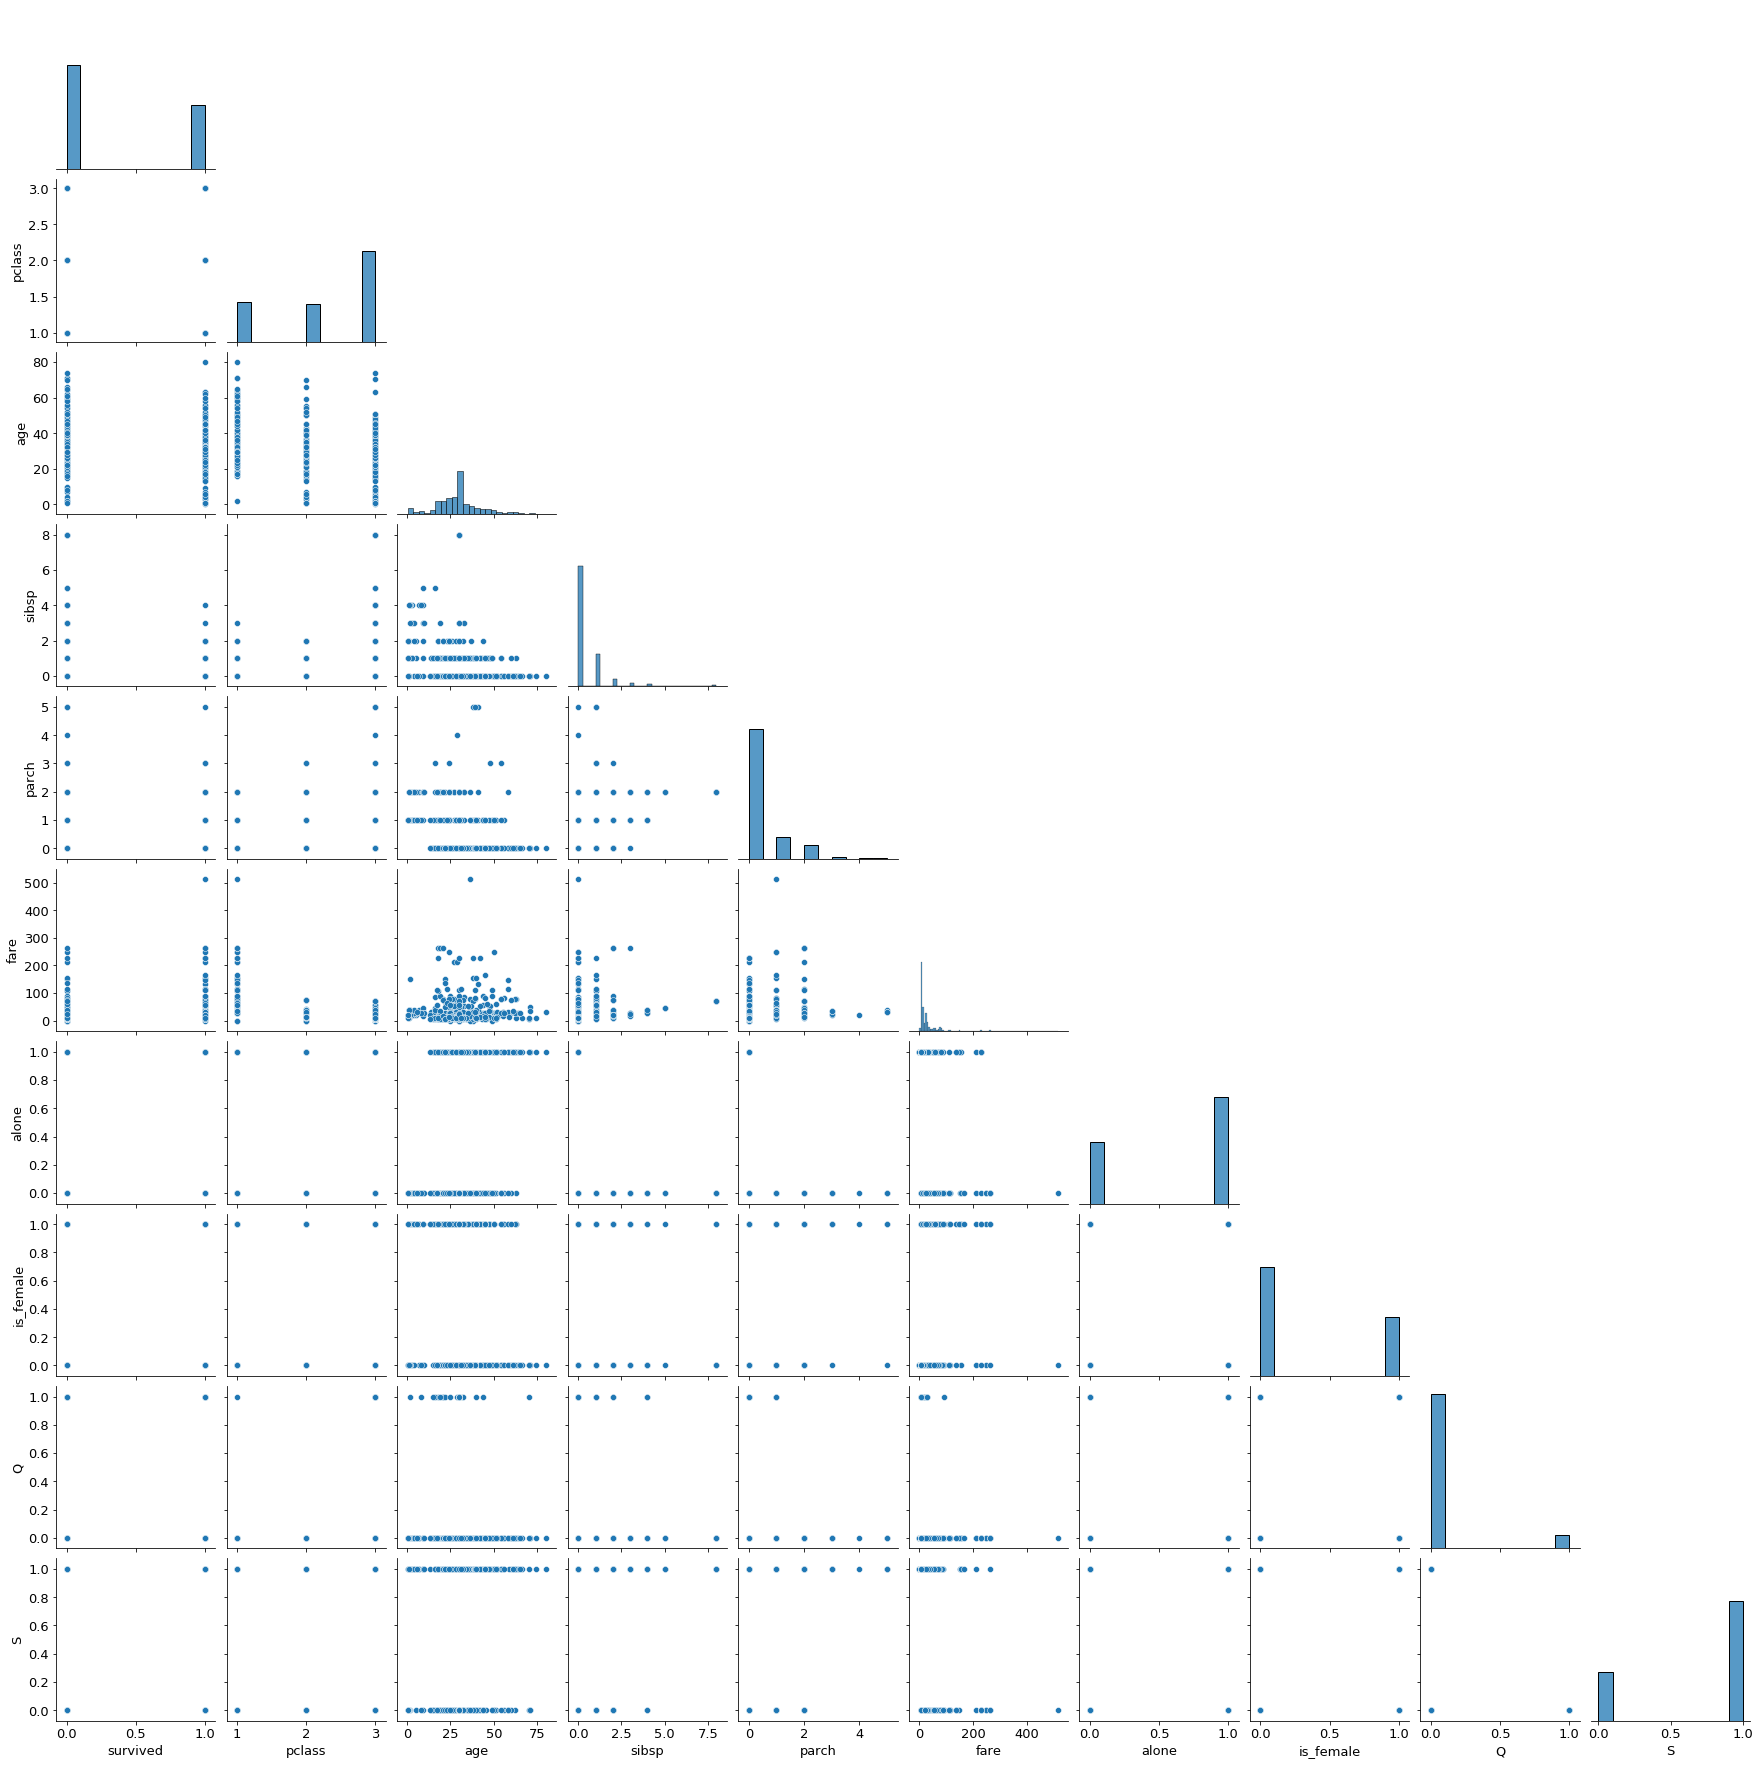
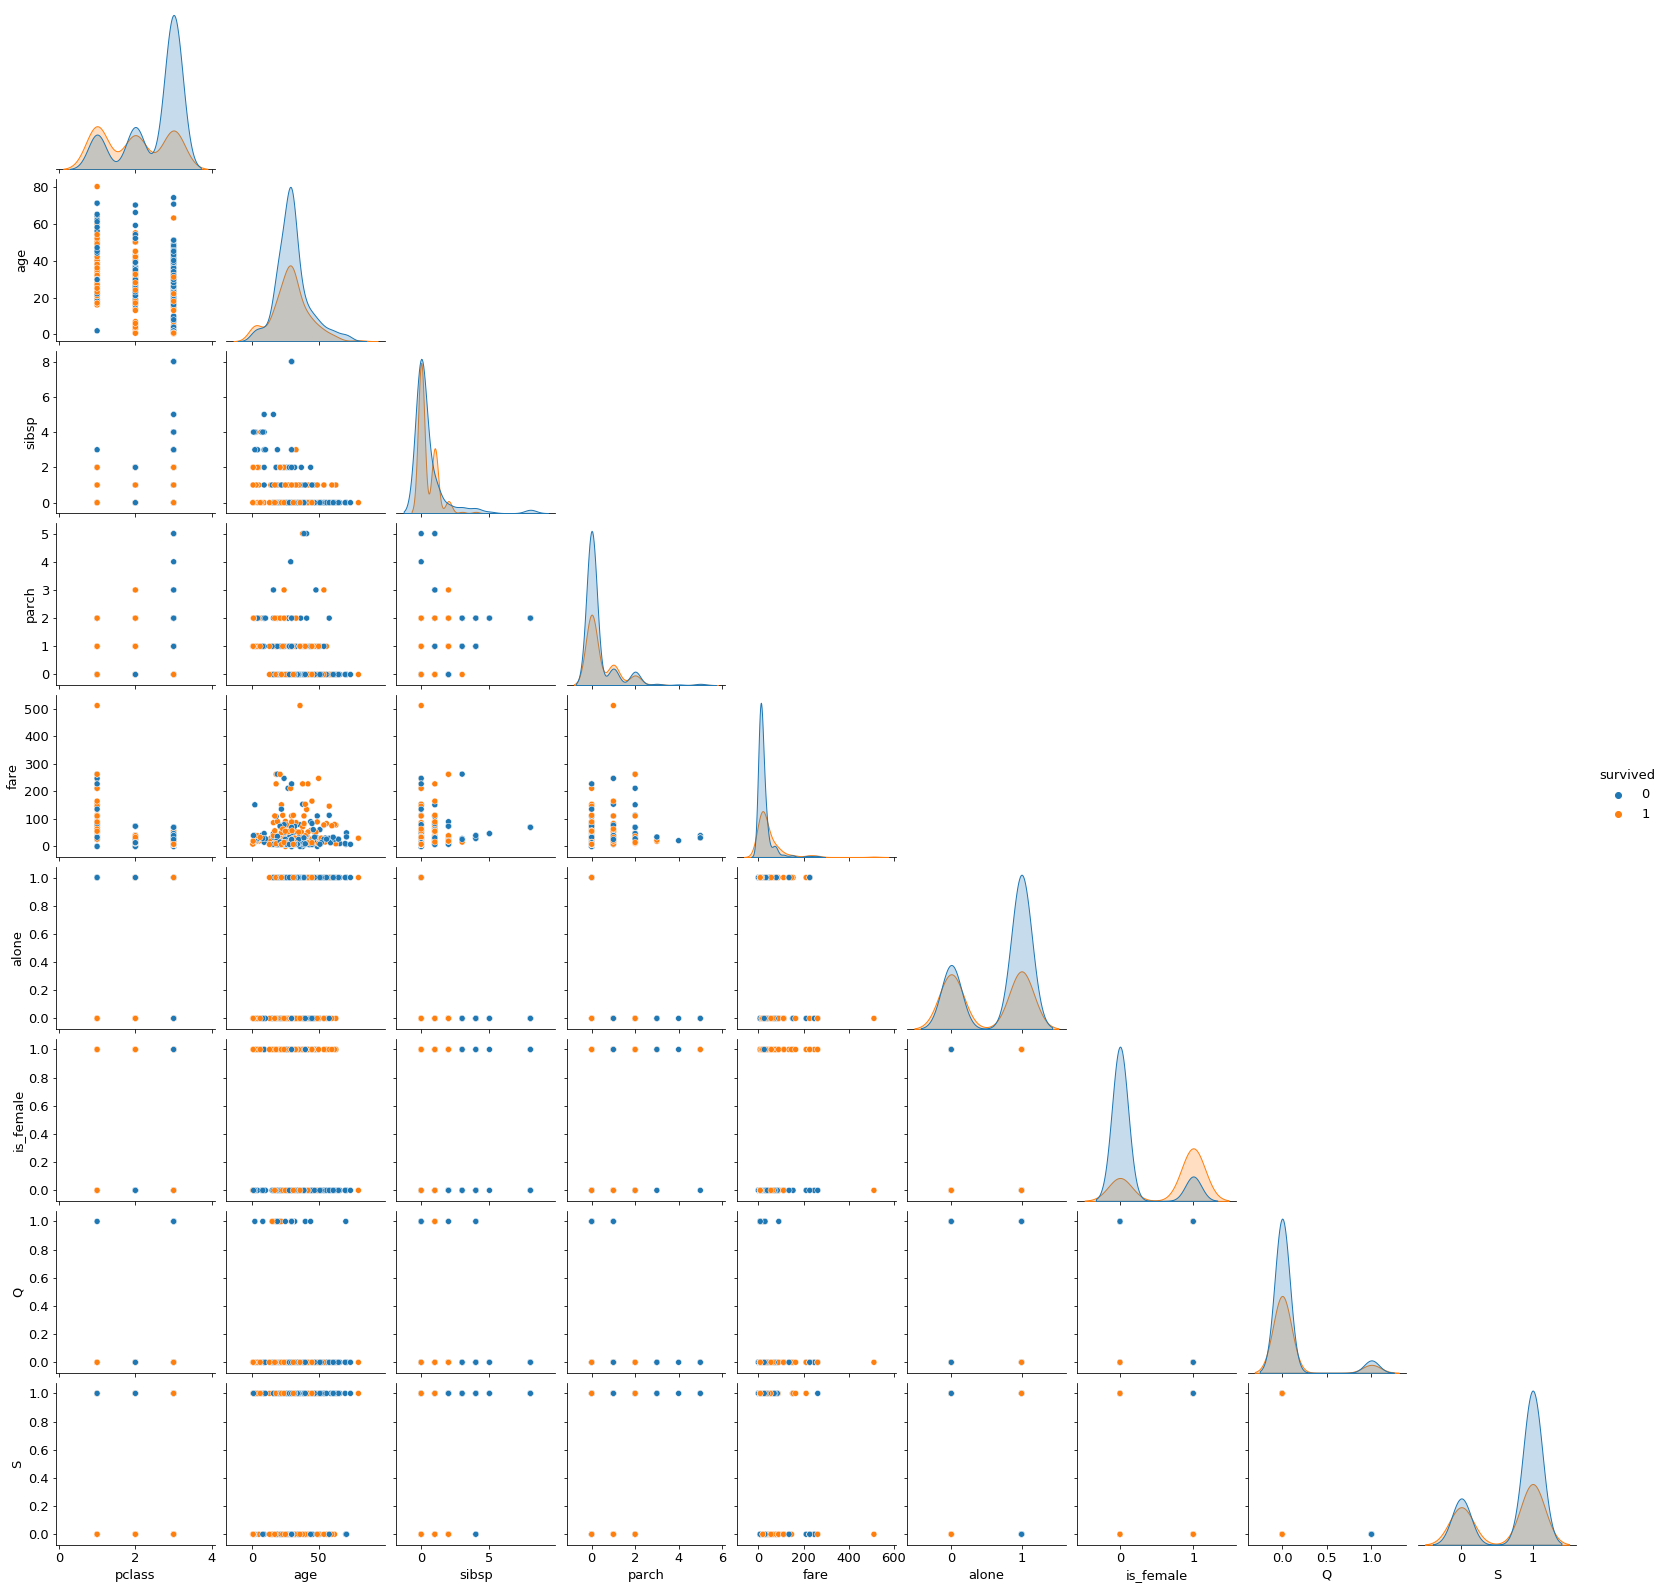
Commit addition of hue to pairplot

diff --git a/classification_acquire_to_explore_review/classification_acquire_to_explore_review.html b/classification_acquire_to_explore_review/classification_acquire_to_explore_review.html
@@ -16561,10 +16561,10 @@ test -&gt; (179, 13)
 </div>
 <div class="cell border-box-sizing code_cell rendered">
 <div class="input">
-<div class="prompt input_prompt">In&nbsp;[43]:</div>
+<div class="prompt input_prompt">In&nbsp;[81]:</div>
 <div class="inner_cell">
     <div class="input_area">
-<div class=" highlight hl-ipython3"><pre><span></span><span class="n">sns</span><span class="o">.</span><span class="n">pairplot</span><span class="p">(</span><span class="n">data</span><span class="o">=</span><span class="n">train</span><span class="p">,</span> <span class="n">corner</span><span class="o">=</span><span class="kc">True</span><span class="p">)</span>
+<div class=" highlight hl-ipython3"><pre><span></span><span class="n">sns</span><span class="o">.</span><span class="n">pairplot</span><span class="p">(</span><span class="n">data</span><span class="o">=</span><span class="n">train</span><span class="p">,</span> <span class="n">corner</span><span class="o">=</span><span class="kc">True</span><span class="p">,</span> <span class="n">hue</span><span class="o">=</span><span class="s1">&#39;survived&#39;</span><span class="p">)</span>
 
 <span class="n">plt</span><span class="o">.</span><span class="n">show</span><span class="p">()</span>
 </pre></div>
@@ -18140,7 +18140,7 @@ Name: class, dtype: float64</pre>
 </div>
 <div class="cell border-box-sizing code_cell rendered">
 <div class="input">
-<div class="prompt input_prompt">In&nbsp;[69]:</div>
+<div class="prompt input_prompt">In&nbsp;[80]:</div>
 <div class="inner_cell">
     <div class="input_area">
 <div class=" highlight hl-ipython3"><pre><span></span><span class="c1"># Let&#39;s plot the above table.</span>
@@ -18272,7 +18272,7 @@ Name: class, dtype: float64</pre>
 </div>
 <div class="cell border-box-sizing code_cell rendered">
 <div class="input">
-<div class="prompt input_prompt">In&nbsp;[71]:</div>
+<div class="prompt input_prompt">In&nbsp;[79]:</div>
 <div class="inner_cell">
     <div class="input_area">
 <div class=" highlight hl-ipython3"><pre><span></span><span class="n">sns</span><span class="o">.</span><span class="n">heatmap</span><span class="p">(</span><span class="n">table</span><span class="p">,</span> <span class="n">annot</span><span class="o">=</span><span class="kc">True</span><span class="p">,</span> <span class="n">cmap</span><span class="o">=</span><span class="s1">&#39;Blues&#39;</span><span class="p">,</span> <span class="n">fmt</span><span class="o">=</span><span class="s1">&#39;.1%&#39;</span><span class="p">)</span>
